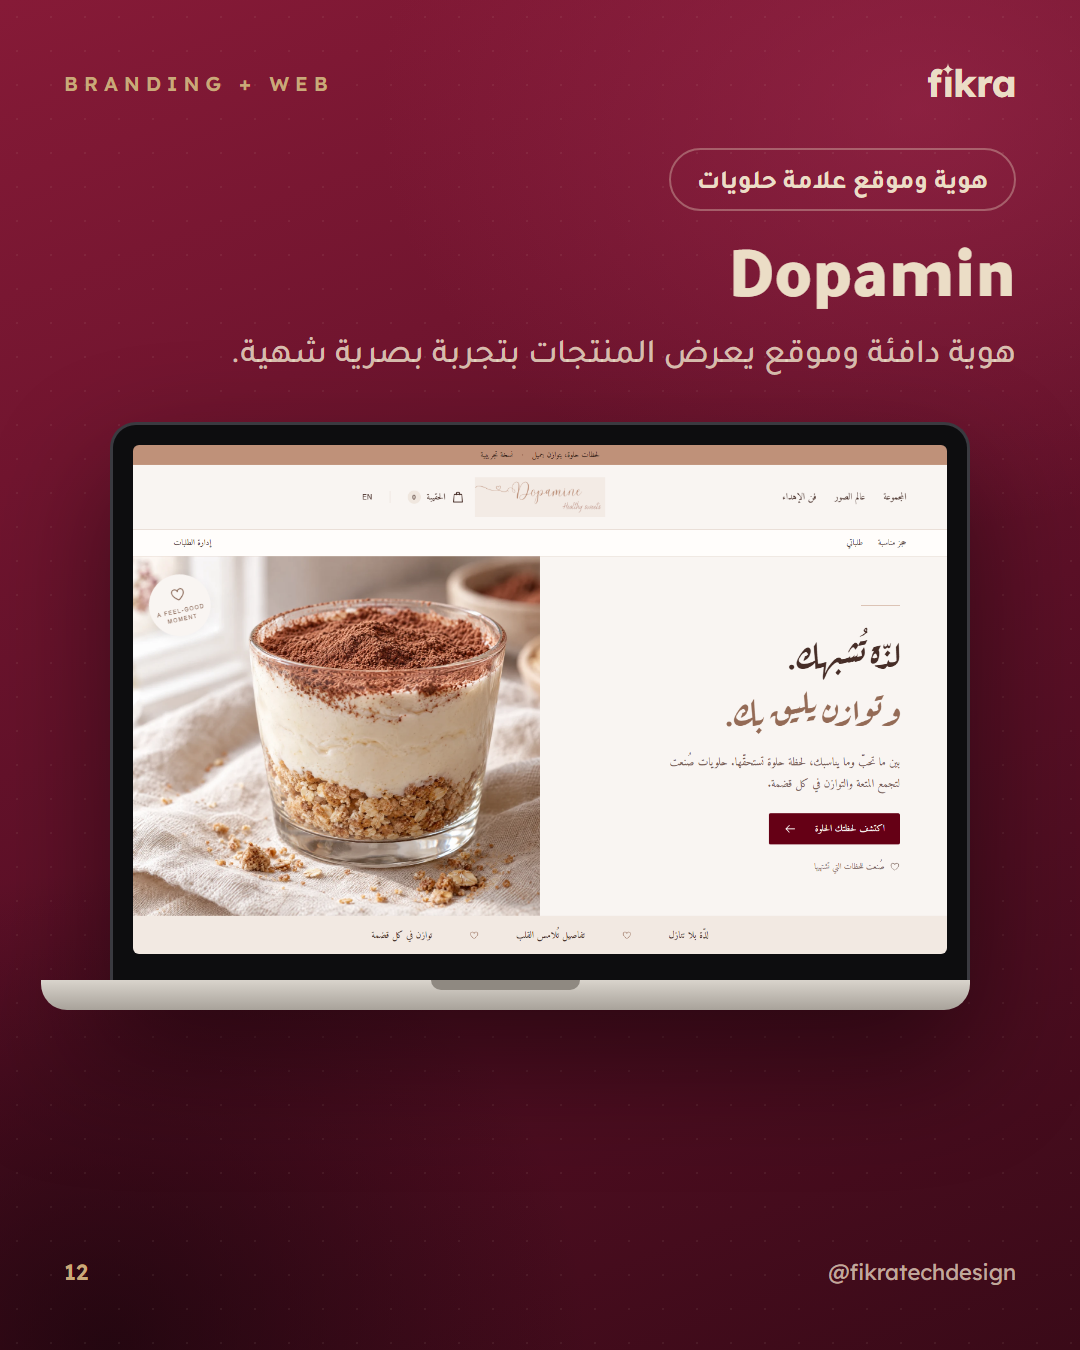
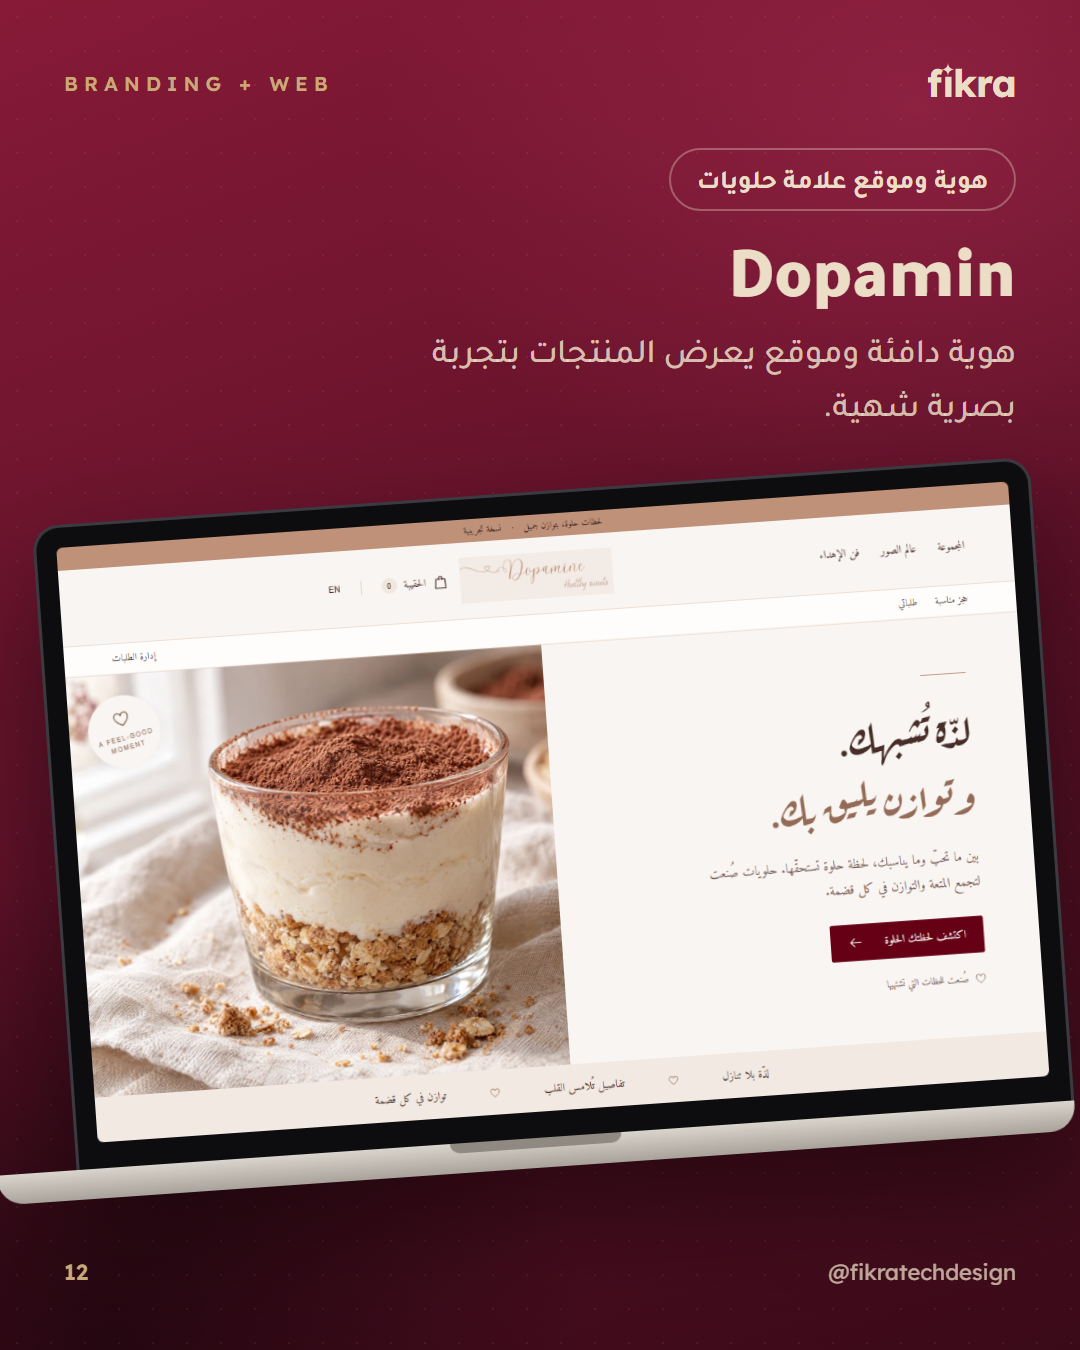
Nafahat 3-screen post from real app frames + varied layouts (trio, bleed)

diff --git a/brand/instagram/posts.html b/brand/instagram/posts.html
@@ -70,6 +70,30 @@ const project = (o) => `${TOP(o.tag)}
   </div>
   ${BOT(o.pg)}`;
 
+
+const trio = (o) => `${TOP(o.tag)}
+  <div style="margin-top:40px;position:relative;z-index:2;text-align:center">
+    <div class="chip">${o.cat}</div>
+    <h2 style="margin-top:20px">${o.title}</h2>
+    <p class="lead" style="margin-top:8px">${o.desc}</p>
+  </div>
+  <div style="position:relative;z-index:2;height:720px;margin-top:30px">
+    <div class="phone" style="position:absolute;width:290px;left:70px;top:90px;transform:rotate(-9deg);opacity:.92"><img src="${o.imgs[0]}"></div>
+    <div class="phone" style="position:absolute;width:290px;right:70px;top:90px;transform:rotate(9deg);opacity:.92"><img src="${o.imgs[2]}"></div>
+    <div class="phone" style="position:absolute;width:330px;left:50%;top:10px;transform:translateX(-50%);z-index:3"><img src="${o.imgs[1]}"></div>
+  </div>
+  ${BOT(o.pg)}`;
+const bleed = (o) => `${TOP(o.tag)}
+  <div style="margin-top:46px;position:relative;z-index:2;max-width:640px">
+    <div class="chip">${o.cat}</div>
+    <h2 style="margin-top:22px">${o.title}</h2>
+    <p class="lead" style="margin-top:10px">${o.desc}</p>
+  </div>
+  <div style="position:absolute;z-index:2;left:-40px;bottom:120px;width:1060px;transform:rotate(-4deg)">
+    <div class="laptop" style="width:1000px"><div class="scr"><img src="${o.img}"></div><div class="base"></div></div>
+  </div>
+  ${BOT(o.pg)}`;
+
 const POSTS = {
  1: () => `${TOP("Tech & Design")}
    ${SP(140,200,120,.9)}${SP(300,360,44,.45)}${SP(860,880,60,.3)}
@@ -139,7 +163,7 @@ const POSTS = {
        <div class="svc" style="border:0"><i>✦</i>مطابخ الجنوب — نقاط البيع</div>
      </div>
    </div>${SP(120,190,80,.7)}${BOT("11")}`,
- 12: () => project({tag:"Branding + Web", cat:"هوية وموقع علامة حلويات", title:"Dopamin", desc:"هوية دافئة وموقع يعرض المنتجات بتجربة بصرية شهية.", img:"dopamin.png", pg:"12"}),
+ 12: () => bleed({tag:"Branding + Web", cat:"هوية وموقع علامة حلويات", title:"Dopamin", desc:"هوية دافئة وموقع يعرض المنتجات بتجربة بصرية شهية.", img:"dopamin.png", pg:"12"}),
  13: () => project({tag:"Kids App", cat:"تطبيق تعليمي للأطفال", title:"صلاتي <span class='gold'>قرة عيني</span>", desc:"رحلة تفاعلية لتعليم الأطفال الأذان والوضوء والصلاة.", img:"slaty.png", phone:true, pw:330, pg:"13"}),
  14: () => `${TOP("Why Fikra")}
    <div style="margin:auto 0;position:relative;z-index:2">
@@ -151,7 +175,7 @@ const POSTS = {
        <div class="stat"><span style="font-size:34px;color:var(--b)">دعم بعد التسليم</span><p class="lead" style="font-size:24px;margin-top:8px">لا تنتهي علاقتنا بالإطلاق</p></div>
      </div>
    </div>${SP(110,200,80,.7)}${BOT("14")}`,
- 15: () => project({tag:"EdTech", cat:"منصة تعليمية متخصصة", title:"saifx — <span class='gold'>الفيزياء</span>", desc:"مساحة منظمة لتعلّم الفيزياء: دروس وكتب وتدريبات لطلاب المرحلة الثانوية.", img:"saifx.png", pg:"15"}),
+ 15: () => bleed({tag:"EdTech", cat:"منصة تعليمية متخصصة", title:"saifx — <span class='gold'>الفيزياء</span>", desc:"مساحة منظمة لتعلّم الفيزياء: دروس وكتب وتدريبات لطلاب المرحلة الثانوية.", img:"saifx.png", pg:"15"}),
  16: () => `${TOP("Process")}
    <div style="margin:auto 0;position:relative;z-index:2">
      <h2>كيف نحوّل<br><span class="gold">فكرتك</span> إلى منتج؟</h2>
@@ -172,6 +196,7 @@ const POSTS = {
    </div>
    <div style="height:90px"></div>${BOT("18")}`,
 };
+POSTS[19] = () => trio({tag:"App", cat:"تطبيق القرآن الكريم", title:"نَفَحات", desc:"المصحف · أوقات الصلاة · القبلة — صحبة يومية مع القرآن", imgs:["naf-home.png","naf-mushaf.png","naf-qibla.png"], pg:"19"});
 const n = new URLSearchParams(location.search).get("n") || "1";
 document.getElementById("f").innerHTML = POSTS[n]();
 </script>
